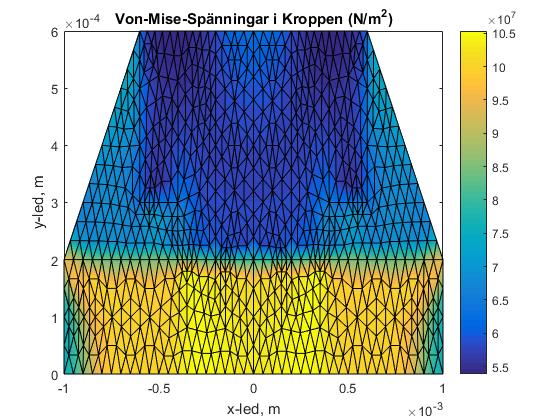
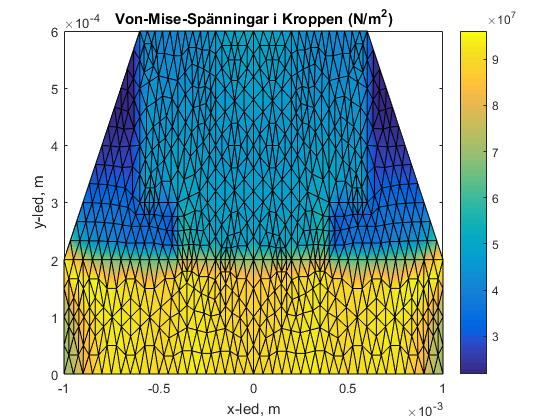
fixade lite mer

diff --git a/spanningar.m b/spanningar.m
@@ -2,17 +2,16 @@
 %index som tidigare. Y-komponenterna ges samma index som sina noder men +
 %ndof f�r att inte f� index-�verlapp.
 edofold = edof;
-edof = [edof(:, 1), edof(:,2), edof(:,2)+ndof, edof(:, 3), edof(:, 3)+ndof, edof(:, 4), edof(:, 4) + ndof];
+edof = [edof(:, 1), edof(:,2), edof(:,2)+ndof, edof(:, 3), edof(:,3)+ndof, edof(:, 4), edof(:, 4) + ndof];
 ndof = 2 * ndof;
 
 %R�kna ut deltaT
-% deltaT = zeros(nelm,1);
-% for i  = 1 : nelm
-%    node1 = triangle(1, i); node2 = triangle(2, i); node3 = triangle(3, i);
-%    deltaT(i) =  1/3 * sum([Tstat(node1), Tstat(node2), Tstat(node3)]);
-% end
-% deltaT = deltaT - T0;
-deltaT = (extract(edofold, Tstat) - T0);
+deltaT = zeros(nelm,1);
+for i  = 1 : nelm
+   node1 = triangle(1, i); node2 = triangle(2, i); node3 = triangle(3, i);
+   deltaT(i) =  1/3 * sum([Tstat(node1), Tstat(node2), Tstat(node3)]);
+end
+deltaT = deltaT - T0;
 
 
 %R�kna ut K-matris och f-vektor:
@@ -56,7 +55,7 @@ for i = 1:nelm
     e0 = Etemp * alfatemp * deltaT(i) / (1 - 2 * vtemp) * [1 1 0];
     [es, et] = plants(Ex(i,:), Ey(i,:), [2,1], D, ad(i,:)); 
     es = es-e0;
-    ez = Etemp * (et(1) + et(2))/((1+vtemp)*(1-2*vtemp)) - Etemp * alfatemp * deltaT(i) / (1 - 2 * vtemp);
+    ez = Etemp * vtemp * (et(1) + et(2))/((1+vtemp)*(1-2*vtemp)) - Etemp * alfatemp * deltaT(i) / (1 - 2 * vtemp);
     vm_el(i) = sqrt(es(1)^2 + es(2)^2 + ez^2 + 3 * es(3)^2 - es(1) * es(2) - es(1) * ez - ez * es(2));
 end
 
